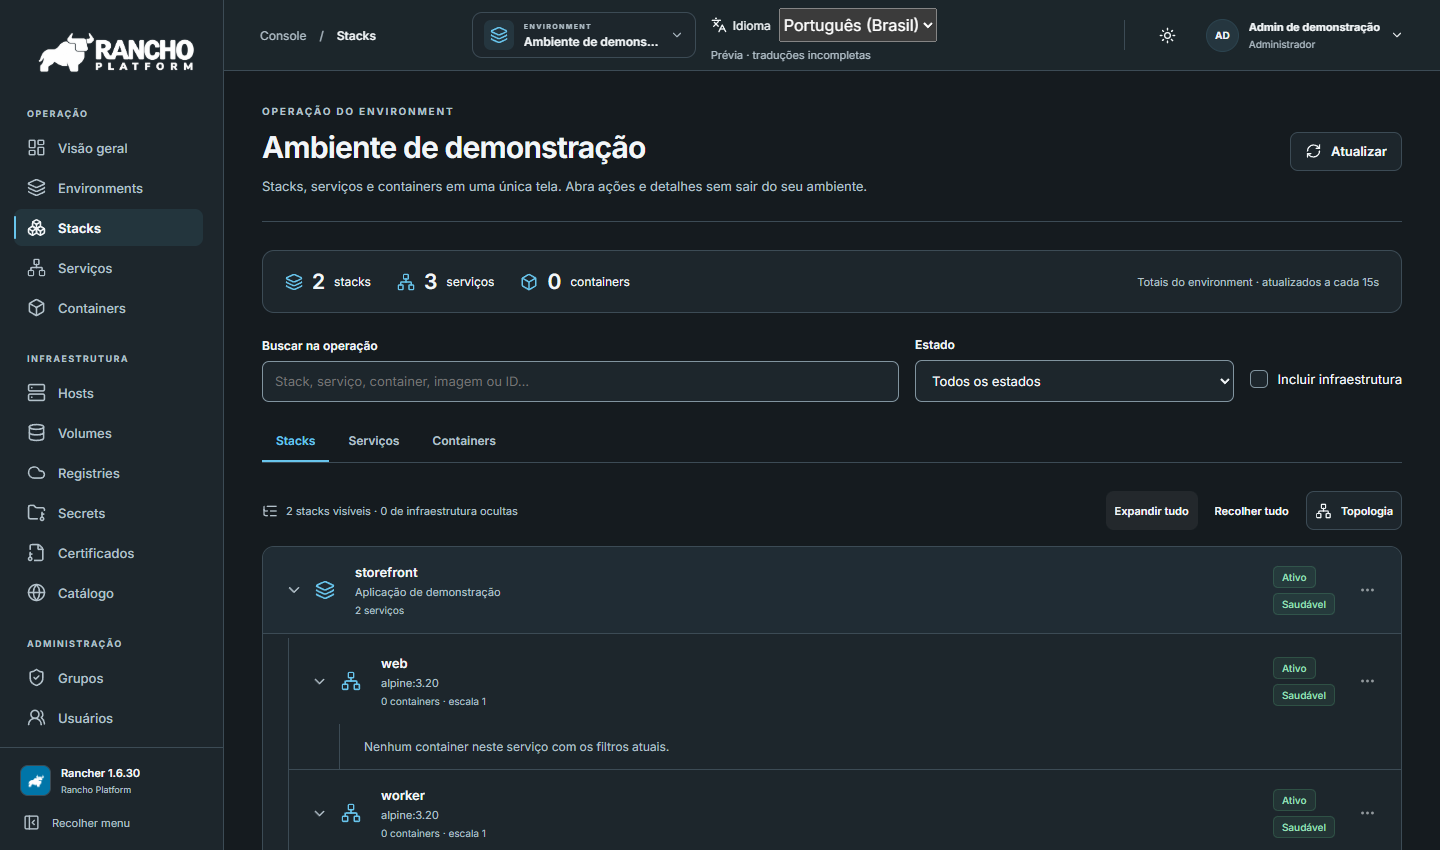
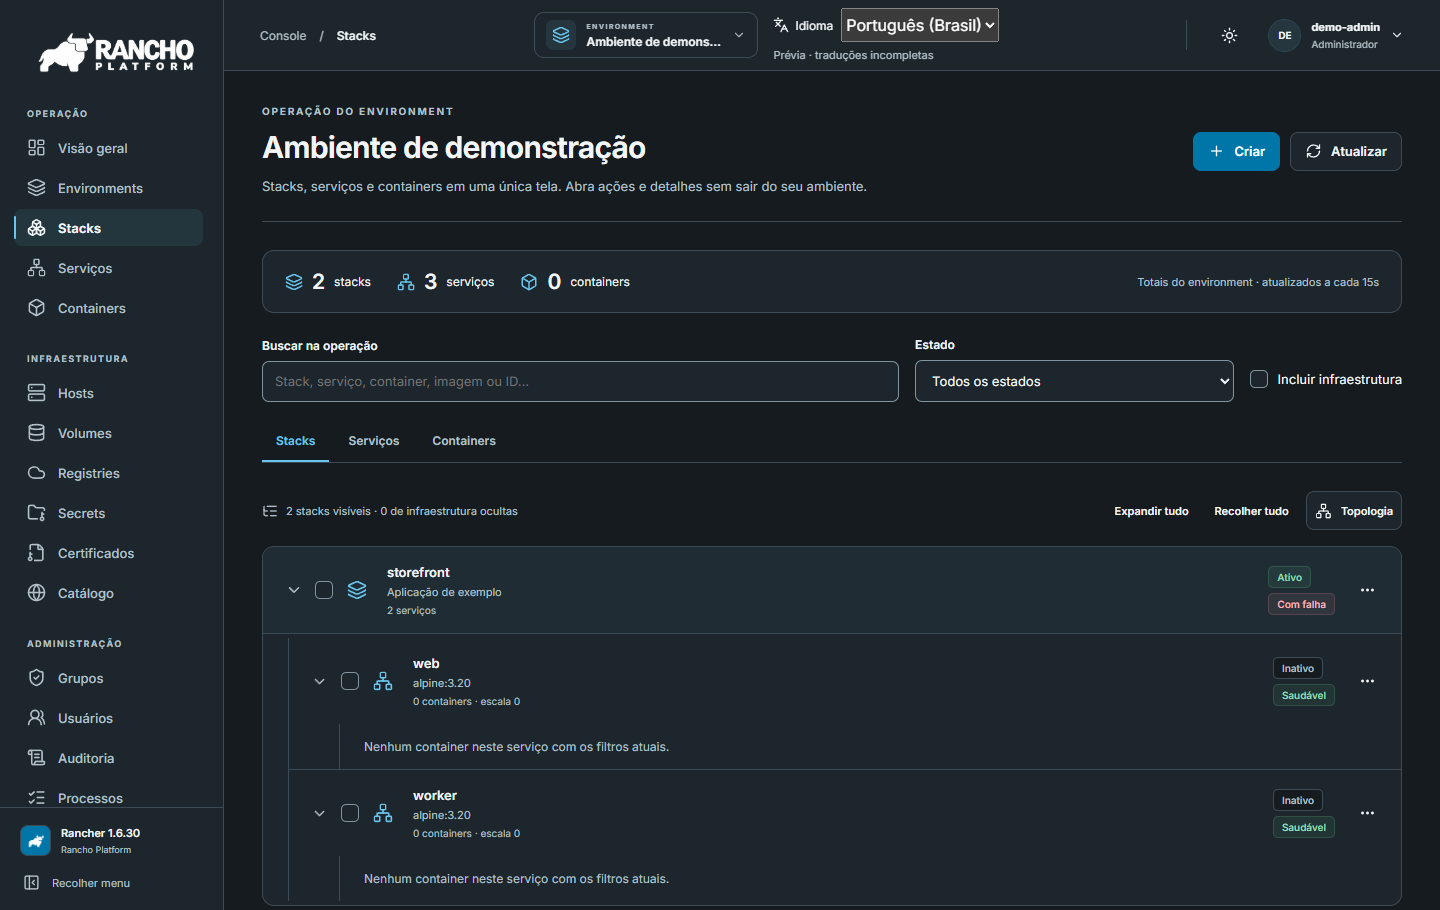
Show live console captures and add bilingual readme contents

diff --git a/docs/pt-BR/overview.md b/docs/pt-BR/overview.md
@@ -4,17 +4,22 @@
 
 **Um console moderno para Docker/Cattle, baseado no Rancher 1.6.30.** Gerencie containers no contexto da stack e do ambiente, com logs, terminal, métricas e ações ao alcance.
 
-[🇧🇷 Português (Brasil)](overview.md) · [🇺🇸 English](../../README.md)
+**Escolha o idioma da documentação** · [🇧🇷 Português (Brasil)](overview.md) · [🇺🇸 English](../../README.md)
 
 [![Versão estável](https://img.shields.io/github/v/release/lucaspaulukx/rancho-platform)](https://github.com/lucaspaulukx/rancho-platform/releases/latest)
 [![CI do console](https://github.com/lucaspaulukx/rancho-platform/actions/workflows/console-validation.yml/badge.svg?branch=main)](https://github.com/lucaspaulukx/rancho-platform/actions/workflows/console-validation.yml)
 [![Apache 2.0](https://img.shields.io/badge/license-Apache%202.0-2563eb)](../../LICENSE)
 
-[Instalação](#instale-com-docker-compose) · [Migração do Rancher](migration.md) · [Imagens no GHCR](https://github.com/users/lucaspaulukx/packages/container/package/rancho-platform) · [Documentação](#documentação)
+## Sumário
+
+- [O que você pode fazer](#o-que-você-pode-fazer)
+- [Instale com Docker Compose](#instale-com-docker-compose)
+- [Compatibilidade e segurança](#compatibilidade-e-segurança)
+- [Documentação](#documentação)
 
 ![Console do Rancho em português mostrando ambientes, stacks e ações de serviços](../images/console-pt-br.png)
 
-*Console em português com dados de demonstração. [Veja o ensaio de migração](migration-evidence.md).*
+*Console em português executando a v0.1.0 em um ambiente local de demonstração. [Veja o ensaio de migração](migration-evidence.md).*
 
 ## O que você pode fazer
 
@@ -58,7 +63,7 @@ A varredura da candidata à v0.1.0 reportou **zero achados altos ou críticos e 
 
 | Quero… | Consulte |
 |---|---|
-| Instalar e verificar imagens de uma release | [Guia de release](release.md) |
+| Instalar e verificar imagens de uma release | [Guia de release](release.md) · [Imagens no GHCR](https://github.com/users/lucaspaulukx/packages/container/package/rancho-platform) |
 | Migrar uma instalação existente do Rancher | [Migração](migration.md) · [Recuperação](recovery.md) |
 | Configurar OIDC, permissões ou o console | [Configuração](configuration.md) |
 | Conhecer o projeto ou contribuir | [Arquitetura](architecture.md) · [Contribuição](contributing.md) · [Testes](testing.md) |

diff --git a/README.md b/README.md
@@ -4,17 +4,22 @@
 
 **A modern Docker/Cattle console built on Rancher 1.6.30.** Operate containers in the context of their stack and environment, with logs, terminal, metrics and lifecycle actions close at hand.
 
-[🇺🇸 English](README.md) · [🇧🇷 Português (Brasil)](docs/pt-BR/overview.md)
+**Choose your documentation language** · [🇺🇸 English](README.md) · [🇧🇷 Português (Brasil)](docs/pt-BR/overview.md)
 
 [![Stable release](https://img.shields.io/github/v/release/lucaspaulukx/rancho-platform)](https://github.com/lucaspaulukx/rancho-platform/releases/latest)
 [![Console CI](https://github.com/lucaspaulukx/rancho-platform/actions/workflows/console-validation.yml/badge.svg?branch=main)](https://github.com/lucaspaulukx/rancho-platform/actions/workflows/console-validation.yml)
 [![Apache 2.0](https://img.shields.io/badge/license-Apache%202.0-2563eb)](LICENSE)
 
-[Install](#install-with-docker-compose) · [Migrate from Rancher](docs/en/migration.md) · [Browse images on GHCR](https://github.com/users/lucaspaulukx/packages/container/package/rancho-platform) · [Documentation](#documentation)
+## Contents
+
+- [What you can do](#what-you-can-do)
+- [Install with Docker Compose](#install-with-docker-compose)
+- [Compatibility and security](#compatibility-and-security)
+- [Documentation](#documentation)
 
 ![Rancho Console in English showing environments, stacks and service actions](docs/images/console-en-us.png)
 
-*English console with sample workloads. [See the migration rehearsal](docs/en/migration-evidence.md).*
+*English console running v0.1.0 in a local demo environment. [See the migration rehearsal](docs/en/migration-evidence.md).*
 
 ## What you can do
 
@@ -58,7 +63,7 @@ The v0.1.0 candidate scan reported **zero high or critical findings and zero det
 
 | I want to… | Read |
 |---|---|
-| Install and verify release images | [Release guide](docs/en/release.md) |
+| Install and verify release images | [Release guide](docs/en/release.md) · [GHCR images](https://github.com/users/lucaspaulukx/packages/container/package/rancho-platform) |
 | Move an existing Rancher installation | [Migration](docs/en/migration.md) · [Recovery](docs/en/recovery.md) |
 | Set up OIDC, permissions or the console | [Configuration](docs/en/configuration.md) |
 | Understand or contribute to the project | [Architecture](docs/en/architecture.md) · [Contributing](CONTRIBUTING.md) · [Testing](docs/en/testing.md) |
